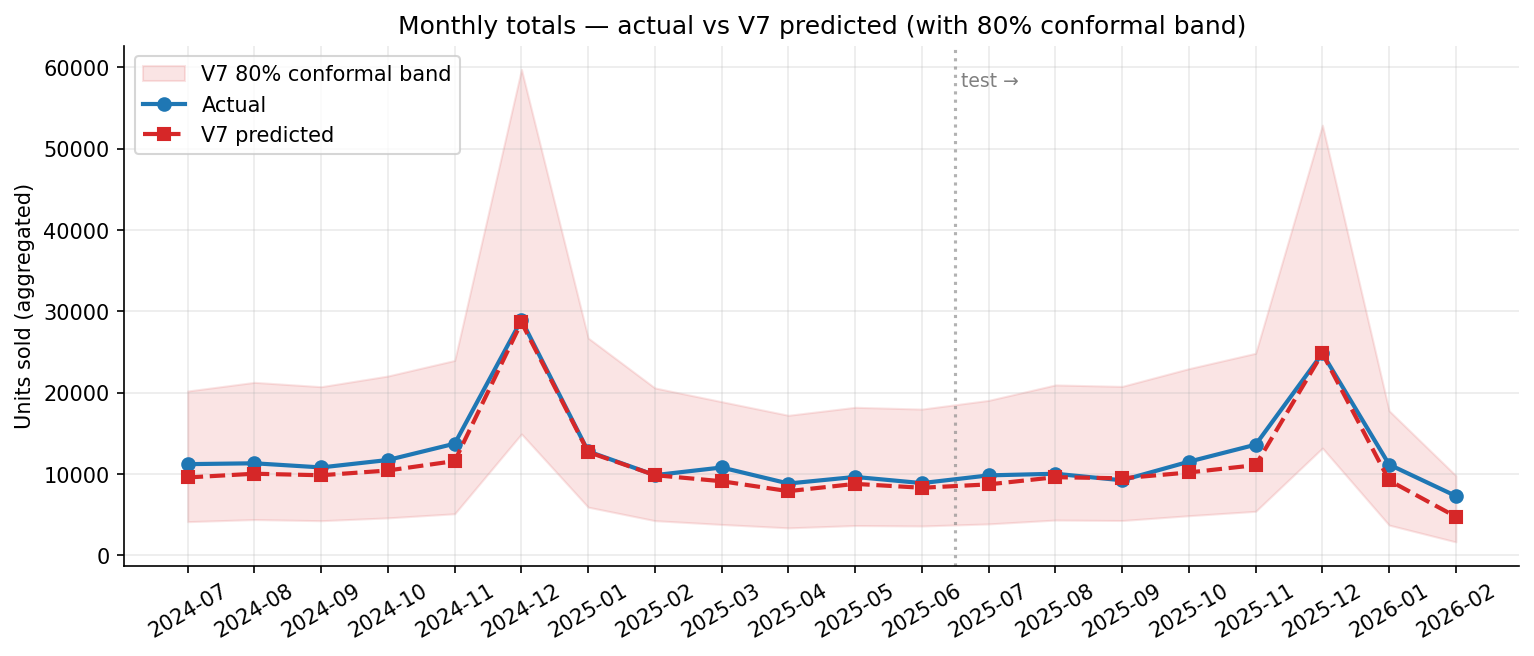
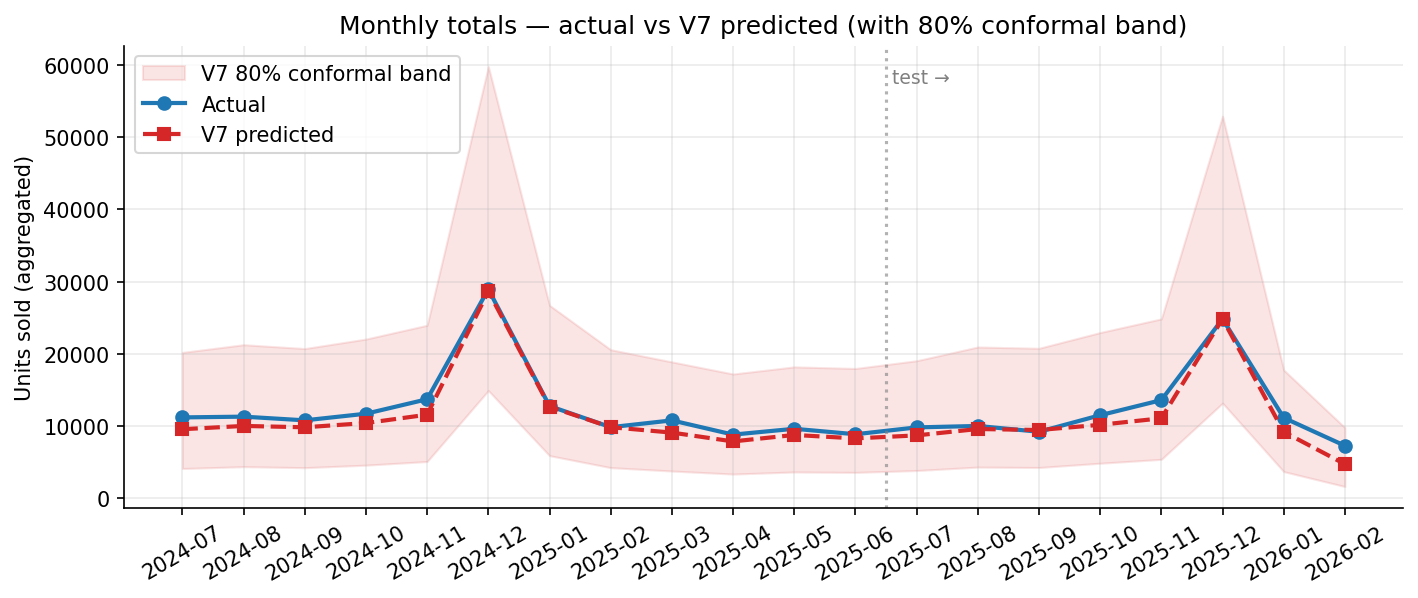
refactor(v7 viz): match V6 dashboard layout
Re-laid-out plot_v7_dashboard.png to mirror plot_v6_dashboard.png:
a 3×2 grid (18×14 in) with identical panel order — full-width
monthly totals on top, scatter + V7-only residual violin in the
middle, V7-only segment WAPE + V4/V5/V6/V7 bar comparison on the
bottom. Removed the 4×2 variant with α-sweep/cost/importance baked
into the dashboard itself; those stay as standalone charts
(plot_v7_alpha_sweep.png, plot_v7_cost_breakdown.png,
plot_v7_feature_importance.png, plot_v7_conformal_coverage.png).
The V6-vs-V7 comparative residual and segment plots remain as the
standalones plot_v7_residuals.png and plot_v7_segments.png.

Made-with: Cursor

diff --git a/scripts/viz_v7_performance.py b/scripts/viz_v7_performance.py
@@ -1,22 +1,19 @@
-"""V7 performance dashboard — mirrors ``scripts.viz_v6_performance`` with V7-specific panels.
+"""V7 performance dashboard — mirrors ``scripts.viz_v6_performance`` in layout.
 
-Dashboard (``output/plot_v7_dashboard.png``):
-    1. Monthly totals — actual vs V7 predicted with 80% conformal band (val + test)
-    2. Scatter (predicted vs actual, log)
-    3. Residual violin per month (V6 vs V7)
-    4. WAPE by segment (channel, brand, volume tier)
-    5. α-sweep Pareto — WAPE vs annualised UAH cost
-    6. Top-20 V7 feature importances (red = newly added in V7)
+Dashboard (``output/plot_v7_dashboard.png``, 3×2 grid):
+    1. Monthly totals — actual vs V7 predicted with 80% conformal band
+    2. Scatter (predicted vs actual, log)         |  V7 residual violin per month
+    3. WAPE by segment (channel / brand / tier)   |  WAPE & MAPE_nz across V4…V7
 
-Stand-alone charts:
+Stand-alone V7-specific charts (not in earlier model dashboards):
     output/plot_v7_monthly.png
     output/plot_v7_scatter.png
-    output/plot_v7_residuals.png
-    output/plot_v7_segments.png
-    output/plot_v7_alpha_sweep.png
-    output/plot_v7_cost_breakdown.png
-    output/plot_v7_conformal_coverage.png
-    output/plot_v7_feature_importance.png
+    output/plot_v7_residuals.png           — V6 vs V7 residual violins
+    output/plot_v7_segments.png            — V6 vs V7 per-segment WAPE
+    output/plot_v7_alpha_sweep.png         — cost-vs-accuracy Pareto
+    output/plot_v7_cost_breakdown.png      — V4..V7 UAH cost bars
+    output/plot_v7_conformal_coverage.png  — empirical coverage by channel
+    output/plot_v7_feature_importance.png  — top-20 gain
 
 Run:
     python -m scripts.viz_v7_performance
@@ -187,6 +184,110 @@ def _panel_scatter(ax, df_val: pd.DataFrame, df_test: pd.DataFrame) -> None:
     ax.set_ylabel("predicted qty (+0.5, log)")
     ax.set_title("V7 prediction vs actual (row-level)")
     ax.legend(loc="upper left", markerscale=3)
+
+
+def _panel_residual_violin(ax, df_val: pd.DataFrame, df_test: pd.DataFrame) -> None:
+    """Match V6 dashboard style: V7 residuals per month, blue=val, red=test."""
+    df = pd.concat([df_val, df_test], ignore_index=True)
+    df["residual"] = df["prediction"] - df["target_qty"]
+    df = df[(df["target_qty"] > 0) | (df["prediction"] > 0.1)]
+    order = sorted(df["Период"].unique())
+    data = [df.loc[df["Период"] == p, "residual"].clip(-20, 20).values for p in order]
+    labels = [str(p) for p in order]
+    val_periods = {str(p) for p in df_val["Период"].unique()}
+    parts = ax.violinplot(data, showmeans=True, showextrema=False, widths=0.9)
+    for i, pc in enumerate(parts["bodies"]):
+        pc.set_facecolor("#1f77b4" if labels[i] in val_periods else "#d62728")
+        pc.set_alpha(0.55)
+    ax.axhline(0, color="black", linewidth=0.8)
+    ax.set_xticks(range(1, len(labels) + 1))
+    ax.set_xticklabels(labels, rotation=30)
+    ax.set_ylim(-20, 20)
+    ax.set_ylabel("residual (pred − actual), clipped ±20")
+    ax.set_title("V7 residual distribution per month (blue=val, red=test)")
+
+
+def _panel_segment_wape_single(ax, df_val: pd.DataFrame, df_test: pd.DataFrame) -> None:
+    """Match V6 dashboard: V7-only WAPE by segment with coloured facets."""
+    df_both = pd.concat([df_val, df_test], ignore_index=True)
+    rows: list[dict] = []
+    for col in ["Канал", "Бренд", "volume_tier"]:
+        if col not in df_both.columns:
+            continue
+        for key, grp in df_both.groupby(col, observed=True):
+            if len(grp) < 100:
+                continue
+            rows.append({
+                "facet": col, "segment": str(key), "n": len(grp),
+                "wape": _wape(grp["target_qty"].values, grp["prediction"].values),
+            })
+    if not rows:
+        ax.set_axis_off(); ax.set_title("WAPE by segment — no columns found"); return
+    df_seg = pd.DataFrame(rows).sort_values(["facet", "wape"])
+    palette = {"Канал": "#1f77b4", "Бренд": "#2ca02c", "volume_tier": "#ff7f0e"}
+    y_pos = np.arange(len(df_seg))
+    colors = [palette.get(f, "#888") for f in df_seg["facet"]]
+    ax.barh(y_pos, df_seg["wape"], color=colors, alpha=0.85)
+    ax.set_yticks(y_pos)
+    ax.set_yticklabels([f"{r.facet}: {r.segment} (n={r.n:,})" for r in df_seg.itertuples()],
+                       fontsize=8)
+    ax.set_xlabel("WAPE")
+    ax.set_title("WAPE by segment (V7, val+test)")
+    ax.axvline(_wape(df_both["target_qty"].values, df_both["prediction"].values),
+               color="black", linewidth=1, linestyle="--", label="overall V7")
+    ax.legend(loc="lower right")
+
+
+def _panel_model_comparison(ax) -> None:
+    """Match V6 dashboard style: WAPE & MAPE_nz across V4/V5/V6/V7."""
+    frames = []
+    for p in (METRICS_V5, METRICS_V6, METRICS_V7):
+        if p.exists():
+            frames.append(pd.read_csv(p))
+    if not frames:
+        ax.set_axis_off(); ax.set_title("Metrics CSVs missing"); return
+    combined = pd.concat(frames, ignore_index=True)
+    if "V4" not in set(combined["model"]):
+        try:
+            v4_val = pd.read_csv(OUT / "preds_v4_val.csv")
+            v4_test = pd.read_csv(OUT / "preds_v4_test.csv")
+            rows = []
+            for split, df in [("val", v4_val), ("test", v4_test)]:
+                m = compute_all_metrics(df["target_qty"].values, df["prediction"].values)
+                rows.append({"model": "V4", "split": split, **m})
+            combined = pd.concat([pd.DataFrame(rows), combined], ignore_index=True)
+        except FileNotFoundError:
+            pass
+
+    # Use V7_cal variant from v7_metrics.csv as the headline V7 row
+    combined = combined[~((combined["model"] == "V7") & (combined["model"] != "V7"))]
+    v7 = combined[combined["model"].str.startswith("V7")]
+    if not v7.empty and "V7_cal" in set(v7["model"]):
+        combined = combined[~combined["model"].str.startswith("V7")]
+        cal = v7[v7["model"] == "V7_cal"].copy()
+        cal["model"] = "V7"
+        combined = pd.concat([combined, cal], ignore_index=True)
+
+    order = ["V4", "V5", "V6", "V7"]
+    combined = combined[combined["model"].isin(order)]
+    combined["model"] = pd.Categorical(combined["model"], categories=order, ordered=True)
+    combined["split"] = pd.Categorical(combined["split"], categories=["val", "test"], ordered=True)
+    combined = combined.sort_values(["model", "split"]).reset_index(drop=True)
+
+    labels = [f"{r['model']}-{r['split']}" for _, r in combined.iterrows()]
+    wape_vals = combined["WAPE"].values
+    mape_vals = combined["MAPE_nz"].values
+    x = np.arange(len(labels))
+    w = 0.4
+    ax.bar(x - w/2, wape_vals, w, label="WAPE", color="#1f77b4", alpha=0.85)
+    ax.bar(x + w/2, mape_vals, w, label="MAPE_nz", color="#ff7f0e", alpha=0.85)
+    for xi, v in zip(x - w/2, wape_vals):
+        ax.text(xi, v + 0.005, f"{v:.3f}", ha="center", fontsize=7)
+    for xi, v in zip(x + w/2, mape_vals):
+        ax.text(xi, v + 0.005, f"{v:.3f}", ha="center", fontsize=7)
+    ax.set_xticks(x); ax.set_xticklabels(labels, rotation=25, ha="right", fontsize=8)
+    ax.set_title("WAPE & MAPE_nz across models / splits")
+    ax.legend(loc="upper right", fontsize=8)
 
 
 def _panel_residual_vs_v6(ax, df_val: pd.DataFrame, df_test: pd.DataFrame) -> None:
@@ -386,36 +487,36 @@ def main() -> int:
     log.info("V7 val: %s", m_val)
     log.info("V7 test: %s", m_test)
 
-    fig = plt.figure(figsize=(19, 16))
-    gs = gridspec.GridSpec(4, 2, figure=fig, hspace=0.55, wspace=0.28,
-                           height_ratios=[1.0, 1.1, 1.1, 1.3])
+    # ── Dashboard: 3×2 layout matching scripts.viz_v6_performance ──────────
+    fig = plt.figure(figsize=(18, 14))
+    gs = gridspec.GridSpec(3, 2, figure=fig, hspace=0.45, wspace=0.25)
     fig.suptitle(
         f"V7 demand-forecasting dashboard  |  "
-        f"val WAPE={m_val['WAPE']:.3f}  Bias={m_val['Bias']:+.2f}  |  "
-        f"test WAPE={m_test['WAPE']:.3f}  Bias={m_test['Bias']:+.2f}",
-        fontsize=13, y=0.997,
+        f"val WAPE={m_val['WAPE']:.3f}  MAPE_nz={m_val['MAPE_nz']:.3f}  |  "
+        f"test WAPE={m_test['WAPE']:.3f}  MAPE_nz={m_test['MAPE_nz']:.3f}",
+        fontsize=13, y=0.995,
     )
     _panel_monthly(fig.add_subplot(gs[0, :]), df_val, df_test)
     _panel_scatter(fig.add_subplot(gs[1, 0]), df_val, df_test)
-    _panel_residual_vs_v6(fig.add_subplot(gs[1, 1]), df_val, df_test)
-    _panel_segment_wape(fig.add_subplot(gs[2, 0]), df_val, df_test)
-    _panel_alpha_sweep(fig.add_subplot(gs[2, 1]))
-    _panel_cost_breakdown(fig.add_subplot(gs[3, 0]))
-    _panel_feature_importance(fig.add_subplot(gs[3, 1]))
+    _panel_residual_violin(fig.add_subplot(gs[1, 1]), df_val, df_test)
+    _panel_segment_wape_single(fig.add_subplot(gs[2, 0]), df_val, df_test)
+    _panel_model_comparison(fig.add_subplot(gs[2, 1]))
     fig.savefig(DASHBOARD_PNG, bbox_inches="tight")
     log.info("Dashboard → %s", DASHBOARD_PNG)
+    plt.close(fig)
 
-    # Stand-alone plots
+    # ── Standalone charts matching earlier versions' style ─────────────────
     for fn, size, plotter in [
-        (MONTHLY_PNG, (12, 4.5), _panel_monthly),
+        (MONTHLY_PNG, (11, 4), _panel_monthly),
         (SCATTER_PNG, (7, 7), _panel_scatter),
-        (RESID_PNG, (13, 5), _panel_residual_vs_v6),
-        (SEGMENTS_PNG, (11, 9), _panel_segment_wape),
+        (SEGMENTS_PNG, (10, 9), _panel_segment_wape),      # V6-vs-V7 variant
+        (RESID_PNG, (13, 5), _panel_residual_vs_v6),       # V6-vs-V7 variant
     ]:
         f, a = plt.subplots(figsize=size)
         plotter(a, df_val, df_test)
         f.savefig(fn, bbox_inches="tight"); log.info("→ %s", fn); plt.close(f)
 
+    # ── V7-specific extras (not on the main dashboard) ─────────────────────
     for fn, size, plotter in [
         (ALPHA_PNG, (8, 6), _panel_alpha_sweep),
         (COST_PNG, (10, 5.5), _panel_cost_breakdown),